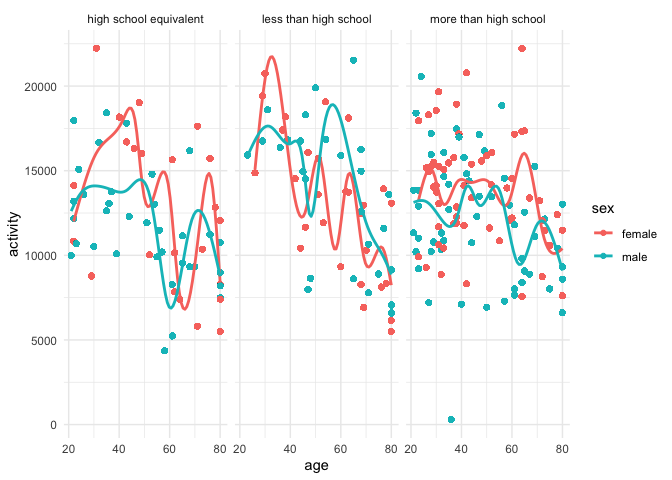
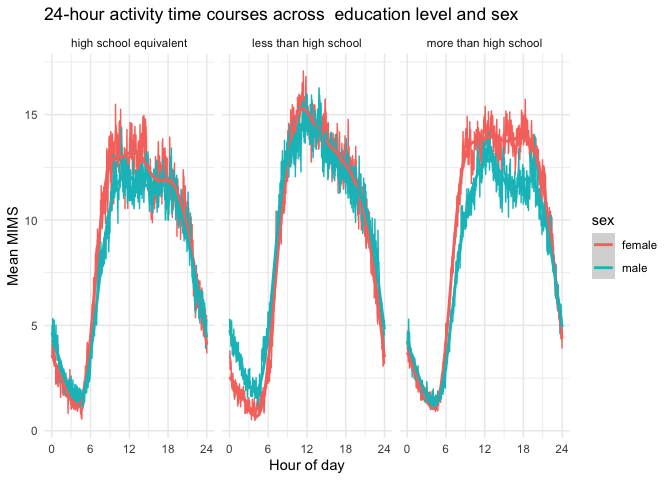
Finishing Problems 2 and 3

diff --git a/p8105_hw3_eej2124.md b/p8105_hw3_eej2124.md
@@ -47,8 +47,6 @@ noaa_df =
     ) 
 ```
 
-# Should I drop na?
-
 ## Most commonly observed snowfall
 
 ``` r
@@ -279,7 +277,7 @@ be younger.
 demo_accel_df |>  
   group_by(seqn) |> 
   mutate(
-    activity = sum(mims)) |> 
+    activity = sum(mims, na.rm = TRUE)) |> 
   ggplot(aes(x = age, y = activity, color = sex)) +
   geom_point() + 
   geom_smooth(se = FALSE) +
@@ -299,15 +297,42 @@ they age, although there is still a slight downward trend.
 ## Activity over the day
 
 ``` r
-#demo_accel_df |> 
-#  group_by(minute, education, sex) |> 
- # ggplot(aes(x = minute, y = mims, color = sex)) +
-  #geom_point() + 
-  #facet_grid(. ~ education) +
-  #theme_minimal()
+demo_accel_df |> 
+  mutate(
+    minute = as.numeric(minute)
+  ) |> 
+  group_by(minute, education, sex) |>
+  summarize( 
+    mean_mims = mean(mims, na.rm = TRUE)) |> 
+  ggplot(aes(x = minute / 60, y = mean_mims, color = sex)) +
+  geom_line() + 
+  geom_smooth() +
+  facet_grid(. ~ education) +
+  scale_x_continuous(breaks = seq(0, 24, 6)) +
+  labs(
+    title = "24-hour activity time courses across  education level and sex",
+    x = "Hour of day",
+    y = "Mean MIMS"
+  ) +
+  theme_minimal()
 ```
 
-# This is bad fix this
+    ## `summarise()` has regrouped the output.
+    ## `geom_smooth()` using method = 'gam' and formula = 'y ~ s(x, bs = "cs")'
+    ## ℹ Summaries were computed grouped by minute, education, and sex.
+    ## ℹ Output is grouped by minute and education.
+    ## ℹ Use `summarise(.groups = "drop_last")` to silence this message.
+    ## ℹ Use `summarise(.by = c(minute, education, sex))` for per-operation grouping
+    ##   (`?dplyr::dplyr_by`) instead.
+
+![](p8105_hw3_eej2124_files/figure-gfm/unnamed-chunk-13-1.png)<!-- -->
+This plot shows the activity levels of participants over the course of
+24 hours, across each education level and sex. In general, women tend to
+have higher activity levels than men. Those with less than a high school
+education have higher activity level peaks earlier in the day than those
+with more than a high school education or with a high school education
+equivalent. However, those with more than a high school education have
+more sustained activity throughout the day than other education levels.
 
 # Problem 3
 
@@ -387,7 +412,7 @@ july2024_df =
 
 # Do i need to tidy more?
 
-## Bind Rows
+## Binding Rows
 
 ``` r
 citi_bikes_df = 
@@ -431,7 +456,7 @@ popularity of Citi Bikes. In both 2020 and 2024, there were more riders
 of all types in the summer, but casual riders specifically significantly
 increased.
 
-## Table 2
+## Most popular starting stations
 
 ``` r
 citi_bikes_df |> 
@@ -452,7 +477,10 @@ citi_bikes_df |>
 | West St & Chambers St    |   150 |
 | W 31 St & 7 Ave          |   145 |
 
-## Plot
+In July 2024, the most popular start station was Pier 61 at Chelsea
+Piers, with 163 total rides occurring.
+
+## Plot of effect of weekday, month, and year on median ride duration
 
 ``` r
 citi_bikes_df |> 
@@ -489,17 +517,31 @@ likely due to the warmer weather. For both January and July in 2020 and
 tends to have longer ride duration, except for Sunday in January 2024,
 which has significantly shorter ride durations.
 
-## Plot 2
+## Plot of the impact of month, membership status, and bike type of ride duration
 
 ``` r
 citi_bikes_df |> 
-  filter(year == "2024") |> 
-  group_by(month, member_casual, rideable_type) |> 
+  filter(year == "2024", duration > 0) |> 
   ggplot(aes(x = rideable_type, y = duration, fill = member_casual)) +
-  geom_violin() +
+  geom_boxplot() +
+  scale_y_log10() +
   facet_grid(.~ month) +
+  labs(
+    title = "The impact of month, membership status, and bike type of ride duration",
+    x = "bike type",
+    y = "ride duration (log scale)",
+    fill = "membership status"
+  ) +
   theme_minimal()
 ```
 
 ![](p8105_hw3_eej2124_files/figure-gfm/unnamed-chunk-22-1.png)<!-- -->
-\# This is bad
+There were many ride duration data point outliers in this data set, most
+likely due to improper docking. These dramatically skewed the plot. In
+order to better interpret the data, I changed the ride duration to a log
+scale. For Citi Bike members, bike type and month do not have huge
+impacts on ride duration. This may be because members tend to use Citi
+Bikes more regularly, for purposes like commuting, which has a similar
+duration year round. However, for casual riders, ride duration is longer
+on classic bikes, which are less expensive than electric bikes, and in
+July, which is better weather for biking than January.
